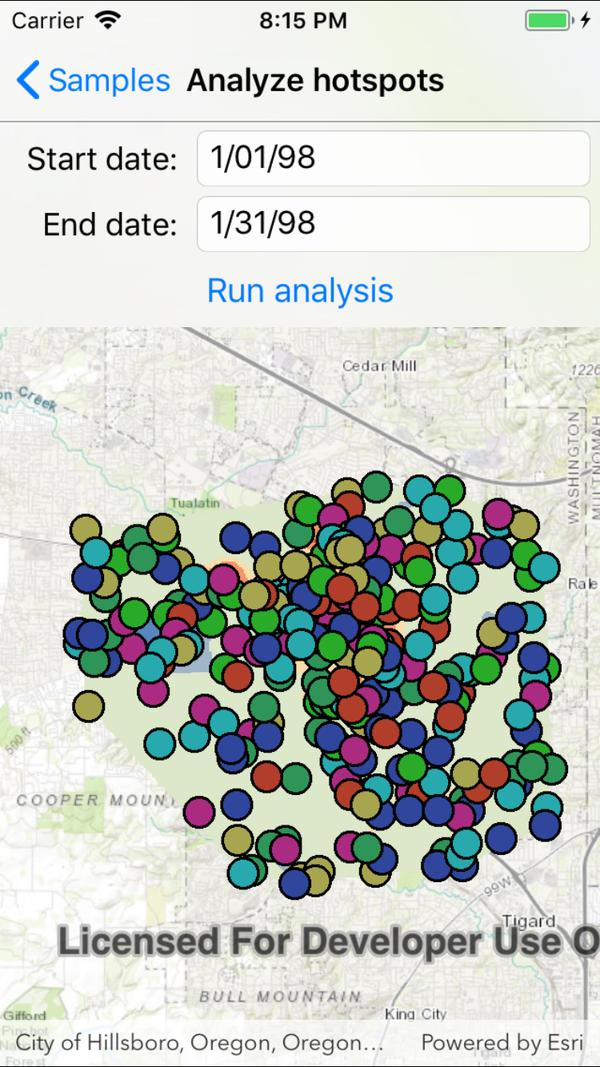
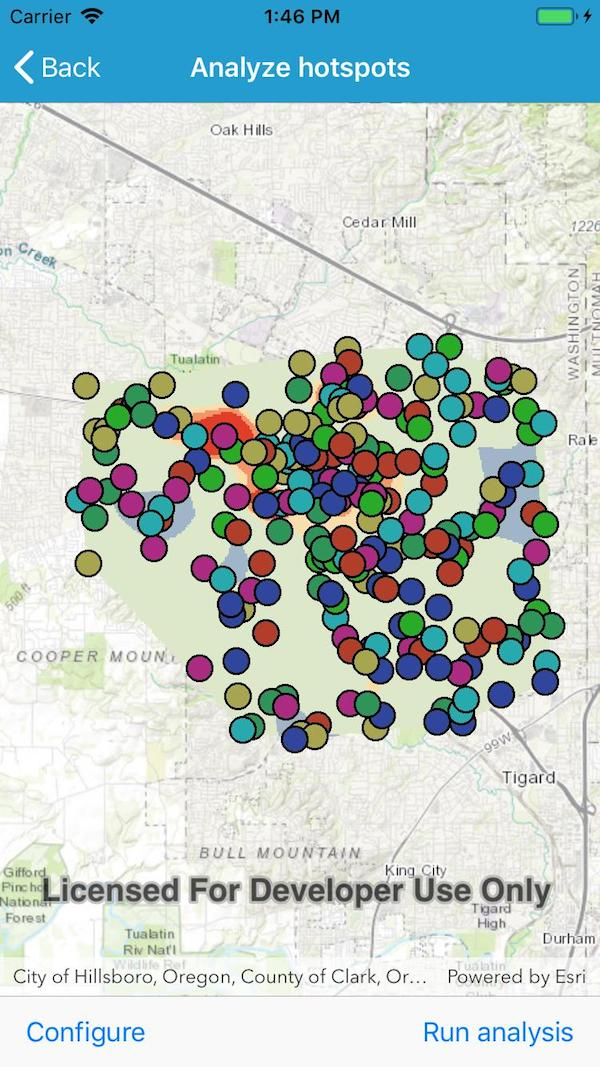
Update Analyze Hotspots iOS

diff --git a/src/iOS/Xamarin.iOS/Samples/Geoprocessing/AnalyzeHotspots/AnalyzeHotspots.cs b/src/iOS/Xamarin.iOS/Samples/Geoprocessing/AnalyzeHotspots/AnalyzeHotspots.cs
@@ -20,6 +20,7 @@ using UIKit;
 namespace ArcGISRuntime.Samples.AnalyzeHotspots
 {
     [Register("AnalyzeHotspots")]
+    [ArcGISRuntime.Samples.Shared.Attributes.ClassFile("DateSelectionViewController")]
     [ArcGISRuntime.Samples.Shared.Attributes.Sample(
         "Analyze hotspots",
         "Geoprocessing",
@@ -27,14 +28,12 @@ namespace ArcGISRuntime.Samples.AnalyzeHotspots
         "To run the hotspot analysis, select a data range and click on the 'Run analysis' button. Note the larger the date range, the longer it may take for the task to run and send back the results.")]
     public class AnalyzeHotspots : UIViewController
     {
-        // Create and hold references to the UI controls.
-        private readonly MapView _myMapView = new MapView();
-        private readonly UIToolbar _toolbar = new UIToolbar();
-        private UILabel _startDateLabel;
-        private UITextField _startDateTextField;
-        private UILabel _endDateLabel;
-        private UITextField _endDateTextField;
-        private UIButton _runAnalysisButton;
+        // Hold references to the UI controls.
+        private MapView _myMapView;
+        private UIToolbar _toolbar;
+        private UIBarButtonItem _configureButton;
+        private UIBarButtonItem _startButton;
+        private DateSelectionViewController _selectionView;
         private UIActivityIndicatorView _progressBar;
 
         // URL for the geoprocessing service.
@@ -55,37 +54,7 @@ namespace ArcGISRuntime.Samples.AnalyzeHotspots
         {
             base.ViewDidLoad();
 
-            CreateLayout();
             Initialize();
-        }
-
-        public override void ViewDidLayoutSubviews()
-        {
-            try
-            {
-                nfloat topMargin = NavigationController.NavigationBar.Frame.Height + UIApplication.SharedApplication.StatusBarFrame.Height;
-                nfloat margin = 5;
-                nfloat controlHeight = 30;
-                nfloat columnSplit = 100;
-                nfloat topStart = topMargin;
-
-                // Reposition the controls.
-                _myMapView.Frame = new CGRect(0, 0, View.Bounds.Width, View.Bounds.Height);
-                _toolbar.Frame = new CGRect(0, topStart, View.Bounds.Width, controlHeight * 3 + margin * 4);
-                _startDateLabel.Frame = new CGRect(margin, topStart + margin, columnSplit - 2 * margin, controlHeight);
-                _startDateTextField.Frame = new CGRect(columnSplit + margin, topStart + margin, View.Bounds.Width - columnSplit - 2 * margin, controlHeight);
-                _endDateLabel.Frame = new CGRect(margin, topStart + controlHeight + 2 * margin, columnSplit - 2 * margin, controlHeight);
-                _endDateTextField.Frame = new CGRect(columnSplit + margin, topStart + controlHeight + 2 * margin, View.Bounds.Width - columnSplit - 2 * margin, controlHeight);
-                _runAnalysisButton.Frame = new CGRect(margin, topStart + 2 * controlHeight + 3 * margin, View.Bounds.Width - 2 * margin, controlHeight);
-                _myMapView.ViewInsets = new UIEdgeInsets(topMargin + _toolbar.Frame.Height, 0, 0, 0);
-                _progressBar.Frame = new CGRect(0, topMargin, View.Bounds.Width, View.Bounds.Height - topMargin);
-
-                base.ViewDidLayoutSubviews();
-            }
-            // Needed to prevent crash when NavigationController is null. This happens sometimes when switching between samples.
-            catch (NullReferenceException)
-            {
-            }
         }
 
         private async void Initialize()
@@ -106,25 +75,8 @@ namespace ArcGISRuntime.Samples.AnalyzeHotspots
             _progressBar.StartAnimating();
 
             // Get the 'from' and 'to' dates from the date pickers for the geoprocessing analysis.
-            DateTime fromDate;
-            DateTime toDate;
-            try
-            {
-                fromDate = Convert.ToDateTime(_startDateTextField.Text);
-                toDate = Convert.ToDateTime(_endDateTextField.Text);
-            }
-            catch (Exception)
-            {
-                // Handle badly formatted dates.
-                UIAlertController alert = UIAlertController.Create("Invalid date", "Please enter a valid date", UIAlertControllerStyle.Alert);
-                alert.AddAction(UIAlertAction.Create("OK", UIAlertActionStyle.Default, null));
-                PresentViewController(alert, true, null);
-
-                // Stop the progress bar from animating (which also hides it as well).
-                _progressBar.StopAnimating();
-
-                return;
-            }
+            DateTime fromDate = (DateTime)_selectionView.StartPicker.Date;
+            DateTime toDate = (DateTime)_selectionView.EndPicker.Date;
 
             // The end date must be at least one day after the start date.
             if (toDate <= fromDate.AddDays(1))
@@ -196,73 +148,53 @@ namespace ArcGISRuntime.Samples.AnalyzeHotspots
             }
         }
 
-        private void CreateLayout()
+        private void ShowConfiguration(object sender, EventArgs e)
         {
-            // Create label for the start date.
-            _startDateLabel = new UILabel
-            {
-                Text = "Start date:",
-                AdjustsFontSizeToFitWidth = true,
-                TextAlignment = UITextAlignment.Right
-            };
+            NavigationController.PushViewController(_selectionView, true);
+        }
 
-            // Create text field for the initial start date "1/1/98" for the analysis.
-            _startDateTextField = new UITextField
-            {
-                Text = "1/01/98",
-                AdjustsFontSizeToFitWidth = true,
-                BackgroundColor = UIColor.FromWhiteAlpha(1, .8f),
-                BorderStyle = UITextBorderStyle.RoundedRect
-            };
+        public override void LoadView()
+        {
+            View = new UIView();
+            View.BackgroundColor = UIColor.White;
 
-            // Allow pressing 'return' to dismiss the keyboard.
-            _startDateTextField.ShouldReturn += textField =>
-            {
-                textField.ResignFirstResponder();
-                return true;
-            };
+            _selectionView = new DateSelectionViewController();
 
-            // Create label for the end date.
-            _endDateLabel = new UILabel
-            {
-                Text = "End date:",
-                AdjustsFontSizeToFitWidth = true,
-                TextAlignment = UITextAlignment.Right
-            };
+            _myMapView = new MapView();
+            _myMapView.TranslatesAutoresizingMaskIntoConstraints = false;
+            View.AddSubview(_myMapView);
 
-            // Create text field for the initial end date "1/31/98" for the analysis.
-            _endDateTextField = new UITextField
-            {
-                Text = "1/31/98",
-                AdjustsFontSizeToFitWidth = true,
-                BackgroundColor = UIColor.FromWhiteAlpha(1, .8f),
-                BorderStyle = UITextBorderStyle.RoundedRect
-            };
+            _configureButton = new UIBarButtonItem("Configure", UIBarButtonItemStyle.Plain, ShowConfiguration);
+            _startButton = new UIBarButtonItem("Run analysis", UIBarButtonItemStyle.Plain, OnRunAnalysisClicked);
+            UIBarButtonItem spacer = new UIBarButtonItem(UIBarButtonSystemItem.FlexibleSpace);
 
-            // Allow pressing 'return' to dismiss the keyboard.
-            _endDateTextField.ShouldReturn += textField =>
-            {
-                textField.ResignFirstResponder();
-                return true;
-            };
-
-            // Create button to invoke the geoprocessing request.
-            _runAnalysisButton = new UIButton();
-            _runAnalysisButton.SetTitle("Run analysis", UIControlState.Normal);
-            _runAnalysisButton.SetTitleColor(View.TintColor, UIControlState.Normal);
-
-            // Hook to touch event to do geoprocessing request.
-            _runAnalysisButton.TouchUpInside += OnRunAnalysisClicked;
+            _toolbar = new UIToolbar();
+            _toolbar.TranslatesAutoresizingMaskIntoConstraints = false;
+            _toolbar.Items = new[] { _configureButton, spacer, _startButton };
+            View.AddSubview(_toolbar);
 
             // Hide the activity indicator (progress bar) when stopped.
             _progressBar = new UIActivityIndicatorView
             {
                 BackgroundColor = UIColor.FromWhiteAlpha(0, .5f),
-                HidesWhenStopped = true
+                HidesWhenStopped = true,
+                TranslatesAutoresizingMaskIntoConstraints = false
             };
+            View.AddSubview(_progressBar);
 
-            // Add all of the UI controls to the page.
-            View.AddSubviews(_myMapView, _toolbar, _startDateLabel, _startDateTextField, _endDateLabel, _endDateTextField, _runAnalysisButton, _progressBar);
+            _myMapView.TopAnchor.ConstraintEqualTo(View.SafeAreaLayoutGuide.TopAnchor).Active = true;
+            _myMapView.BottomAnchor.ConstraintEqualTo(_toolbar.TopAnchor).Active = true;
+            _myMapView.LeadingAnchor.ConstraintEqualTo(View.LeadingAnchor).Active = true;
+            _myMapView.TrailingAnchor.ConstraintEqualTo(View.TrailingAnchor).Active = true;
+
+            _toolbar.LeadingAnchor.ConstraintEqualTo(View.LeadingAnchor).Active = true;
+            _toolbar.TrailingAnchor.ConstraintEqualTo(View.TrailingAnchor).Active = true;
+            _toolbar.BottomAnchor.ConstraintEqualTo(View.SafeAreaLayoutGuide.BottomAnchor).Active = true;
+
+            _progressBar.LeadingAnchor.ConstraintEqualTo(View.LeadingAnchor).Active = true;
+            _progressBar.TrailingAnchor.ConstraintEqualTo(View.TrailingAnchor).Active = true;
+            _progressBar.TopAnchor.ConstraintEqualTo(View.SafeAreaLayoutGuide.TopAnchor).Active = true;
+            _progressBar.BottomAnchor.ConstraintEqualTo(View.BottomAnchor).Active = true;
         }
     }
 }

diff --git a/src/iOS/Xamarin.iOS/Samples/Geoprocessing/AnalyzeHotspots/DateSelectionViewController.cs b/src/iOS/Xamarin.iOS/Samples/Geoprocessing/AnalyzeHotspots/DateSelectionViewController.cs
@@ -1,0 +1,66 @@
+// Copyright 2018 Esri.
+//
+// Licensed under the Apache License, Version 2.0 (the "License"); you may not use this file except in compliance with the License.
+// You may obtain a copy of the License at: http://www.apache.org/licenses/LICENSE-2.0
+//
+// Unless required by applicable law or agreed to in writing, software distributed under the License is distributed on an 
+// "AS IS" BASIS, WITHOUT WARRANTIES OR CONDITIONS OF ANY KIND, either express or implied. See the License for the specific 
+// language governing permissions and limitations under the License.
+
+using System;
+using Foundation;
+using UIKit;
+
+namespace ArcGISRuntime.Samples.AnalyzeHotspots
+{
+    public class DateSelectionViewController : UIViewController
+    {
+        public UIDatePicker StartPicker;
+        public UIDatePicker EndPicker;
+
+        public DateSelectionViewController()
+        {
+            Title = "Select a date range";
+            StartPicker = new UIDatePicker();
+            StartPicker.SetDate((NSDate)new DateTime(1998, 1, 1, 0, 0, 0, DateTimeKind.Local), false);
+            EndPicker = new UIDatePicker();
+            EndPicker.SetDate((NSDate)new DateTime(1998, 1, 31, 0, 0, 0, DateTimeKind.Local), false);
+        }
+
+        public override void LoadView()
+        {
+            View = new UIView();
+            View.BackgroundColor = UIColor.White;
+
+            UIStackView stackView = new UIStackView();
+            stackView.Axis = UILayoutConstraintAxis.Vertical;
+            stackView.TranslatesAutoresizingMaskIntoConstraints = false;
+            stackView.Spacing = 8;
+            View.AddSubview(stackView);
+
+            stackView.LeadingAnchor.ConstraintEqualTo(View.SafeAreaLayoutGuide.LeadingAnchor, 8).Active = true;
+            stackView.TrailingAnchor.ConstraintEqualTo(View.SafeAreaLayoutGuide.TrailingAnchor, -8).Active = true;
+            stackView.TopAnchor.ConstraintEqualTo(View.SafeAreaLayoutGuide.TopAnchor, 8).Active = true;
+            stackView.BottomAnchor.ConstraintEqualTo(View.SafeAreaLayoutGuide.BottomAnchor, -8).Active = true;
+
+            UILabel startLabel = new UILabel();
+            startLabel.TranslatesAutoresizingMaskIntoConstraints = false;
+            startLabel.Text = "Start date:";
+            stackView.AddArrangedSubview(startLabel);
+
+            StartPicker.TranslatesAutoresizingMaskIntoConstraints = false;
+            stackView.AddArrangedSubview(StartPicker);
+
+            UILabel endLabel = new UILabel();
+            endLabel.TranslatesAutoresizingMaskIntoConstraints = false;
+            endLabel.Text = "End date:";
+            stackView.AddArrangedSubview(endLabel);
+
+            EndPicker.TranslatesAutoresizingMaskIntoConstraints = false;
+            stackView.AddArrangedSubview(EndPicker);
+
+            // Spacing.
+            stackView.AddArrangedSubview(new UIView());
+        }
+    }
+}
